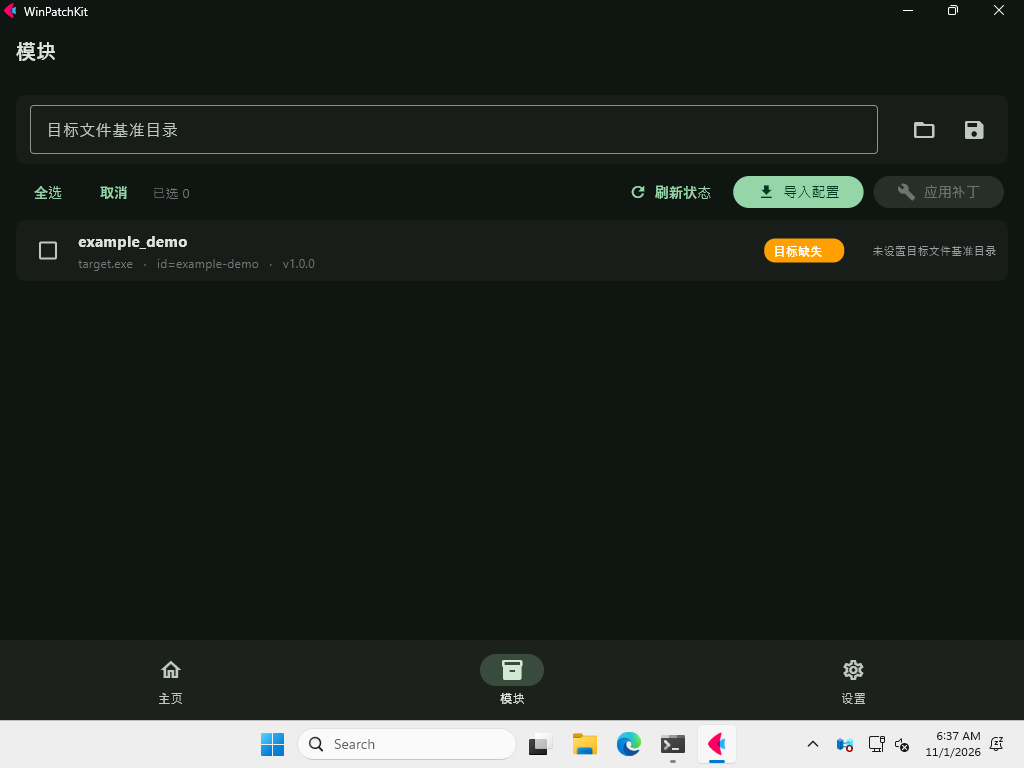
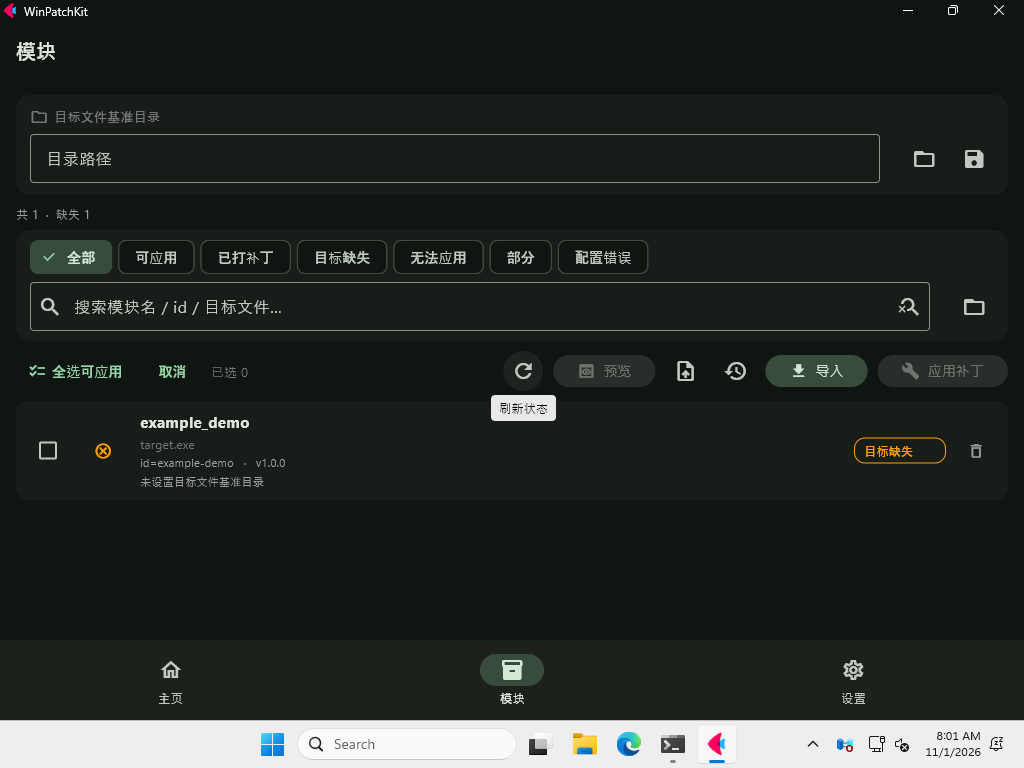
feat(appbar): 顶栏标题前加图标 + 状态徽章文字居中
- 顶栏左上由纯标题改为「图标 + 标题」，图标与底部导航栏选中态一致（HOME/INVENTORY_2/SETTINGS），主色
- 状态徽章定宽容器内文字居中，长文案（如「目标缺失」）不再偏左

刷新 3 张 CI 预览截图。

diff --git a/gui/appbar.py b/gui/appbar.py
@@ -1,6 +1,7 @@
-"""顶部 AppBar（单一职责）：左上=当前页标题（动态）。
+"""顶部 AppBar（单一职责）：左上=当前页图标 + 标题（动态）。
 
-MD3 应用风格：标题在左上角、随页面切换而变。顶栏仅此一个标题，无 LOGO/按钮。
+MD3 应用风格：图标 + 标题在左上角、随页面切换而变，图标与底部导航栏
+选中态一致。顶栏仅此一处，无 LOGO/按钮。
 Flet 官方 Scaffold 机制：page.appbar 由 Flet 自动管理顶栏高度，不手搓。
 明暗不再提供顶部切换按钮（改由「设置 → 个性化 → 主题模式」控制）。
 """
@@ -8,19 +9,43 @@ from __future__ import annotations
 
 import flet as ft
 
+from . import navigation
+
+# 页面标题 -> 顶部图标（与底部导航栏选中态一致，视觉统一）
+_PAGE_ICON = {
+    "主页": ft.Icons.HOME,
+    "模块": ft.Icons.INVENTORY_2,
+    "设置": ft.Icons.SETTINGS,
+}
+_DEFAULT_ICON = ft.Icons.DASHBOARD_OUTLINED
+
+
+def _title_icon(label: str) -> ft.Icon:
+    return ft.Icon(_PAGE_ICON.get(label, _DEFAULT_ICON), size=22,
+                   color=ft.Colors.PRIMARY)
+
 
 def build_appbar(page: ft.Page, initial_title: str = "主页") -> ft.AppBar:
-    """构建顶部 AppBar（左上动态标题）。
+    """构建顶部 AppBar（左上「图标 + 标题」）。
 
-    标题 Text 句柄暂存于 page._appbar_title，供 set_title() 更新。
+    图标 Icon / 标题 Text 句柄暂存于 page._appbar_icon / page._appbar_title，
+    供 set_title() 更新。
     """
+    icon = _title_icon(initial_title)
     title = ft.Text(initial_title, size=20, weight=ft.FontWeight.BOLD)
+    page._appbar_icon = icon
     page._appbar_title = title
-    return ft.AppBar(title=title)
+    return ft.AppBar(
+        title=ft.Row([icon, ft.Container(width=8), title],
+                     alignment=ft.MainAxisAlignment.CENTER,
+                     vertical_alignment=ft.CrossAxisAlignment.CENTER))
 
 
 def set_title(page: ft.Page, label: str) -> None:
-    """更新左上角当前页标题（不触发 update，由调用方统一刷新）。"""
+    """更新左上角当前页图标 + 标题（不触发 update，由调用方统一刷新）。"""
+    icon = getattr(page, "_appbar_icon", None)
+    if icon is not None:
+        icon.icon = _PAGE_ICON.get(label, _DEFAULT_ICON)
     t = getattr(page, "_appbar_title", None)
     if t is not None:
         t.value = label

diff --git a/gui/widgets/status_badge.py b/gui/widgets/status_badge.py
@@ -17,4 +17,5 @@ def status_badge(status: str) -> ft.Container:
         border=ft.Border.all(1, color),
         border_radius=11,
         padding=ft.Padding.symmetric(horizontal=9, vertical=3),
+        alignment="CENTER",  # 定宽容器内文字居中（长文案如「目标缺失」不再偏左）
     )
